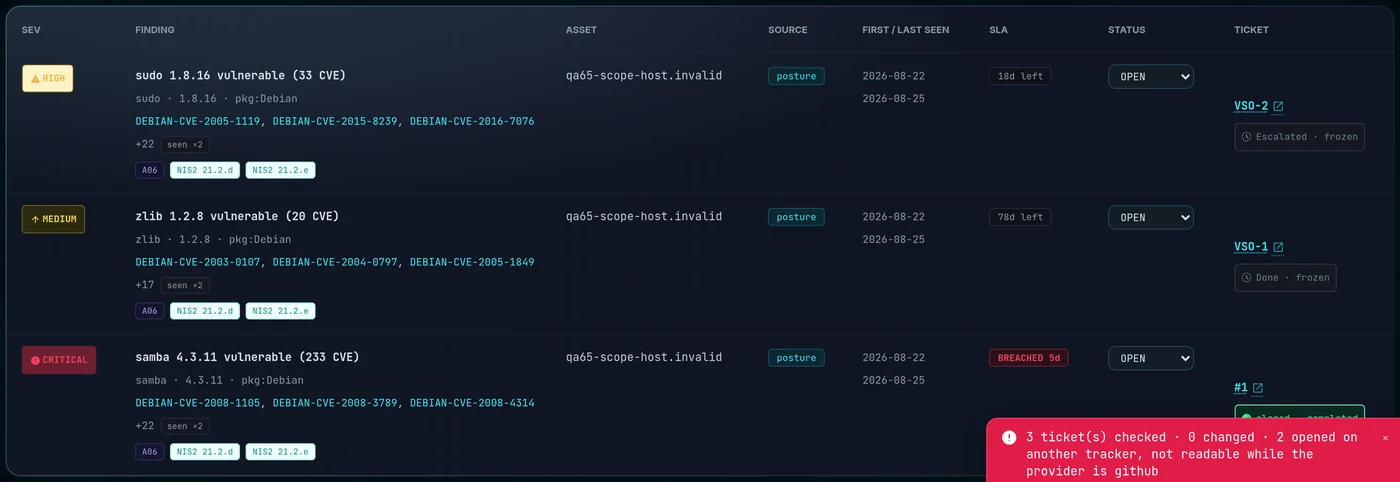
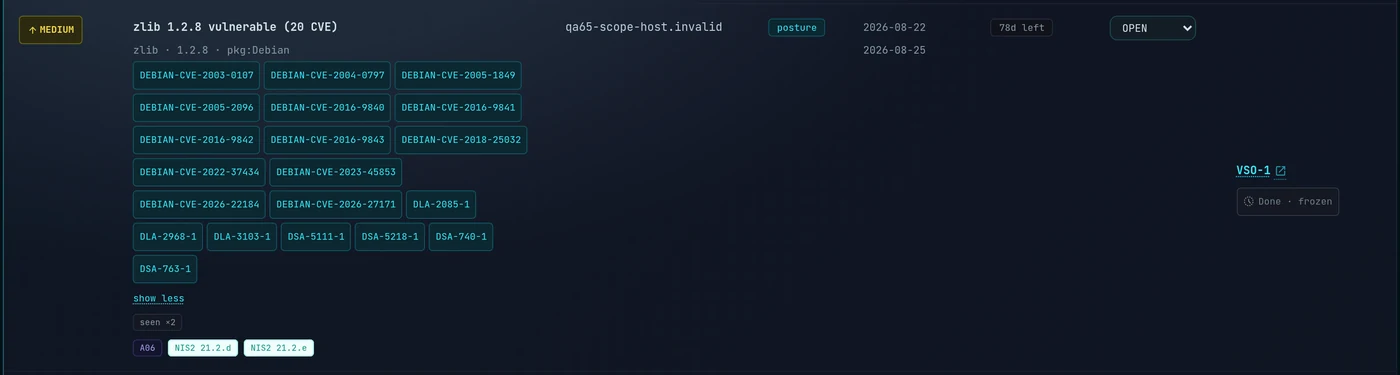
NEW: the +N on a findings row opens, instead of only counting
Every row said "+17" and stopped there. To find out whether a finding
touched one particular CVE you had to export the table or go and look at
the posture page, which has had an expandable list all along — the
information was in the row the whole time, three identifiers of it
merely visible.

The toggle now opens the rest in place and turns into "show less", the
same behaviour and the same wording as the posture page, so the two
tables no longer disagree about what a truncated list does.

Two things it fixes on the way. The identifiers were plain text: they are
links now, and they go where each kind belongs — CVEs to their NVD entry,
distribution advisories (DSA, DLA, GHSA) to OSV, which is the source they
arrived from. And the ids are kept on the cell rather than looked up from
the row on click: the table is redrawn on every filter change, so a
lookup by id would have to search a list that had just been rebuilt.

No request is made to expand. Unlike the posture page, where the stored
ids can be fewer than the OSV total and the rest have to be fetched, a
finding already carries its full list — the export has been writing all
twenty of them for a while.

Verified in the browser on a finding with 25 identifiers: three chips
collapsed, twenty-five expanded, back to three, aria-expanded following
along, DLA-2085-1 resolving to OSV and the CVEs to NVD, in English and
Italian. The suite is Python and does not reach this code; the 330 tests
[…]

diff --git a/templates/findings.html b/templates/findings.html
@@ -9,7 +9,7 @@
   <link rel="icon" type="image/svg+xml" href="/static/favicon.svg" />
   <!-- Self-hosted fonts (Inter, JetBrains Mono, Material Symbols) -->
   <link href="/static/vendor/fonts/fonts.css" rel="stylesheet" />
-  <link rel="stylesheet" href="/static/vendor/tailwind.css?v=52" />
+  <link rel="stylesheet" href="/static/vendor/tailwind.css?v=53" />
   <!-- XLSX export (SheetJS), gia' usato da dashboard e audit -->
   <script src="/static/vendor/xlsx.full.min.js"></script>
   <style>
@@ -376,6 +376,66 @@
         return !!p && p !== TK_PROVIDER;
       }
 
+      // ── CVE espandibili ────────────────────────────────────────────
+      // Il '+17' diceva quante ne mancavano senza darti modo di vederle: per
+      // sapere se un finding tocca una CVE precisa bisognava esportare o
+      // aprire un'altra pagina. Stesso comportamento della pagina posture —
+      // un elenco troncato, un interruttore, e i riferimenti cliccabili.
+      const CVE_LIMIT = 3;
+      let cveSeq = 0;
+
+      function cveUrl(id) {
+        // NVD conosce solo i CVE; gli advisory di distribuzione (DSA/DLA/GHSA)
+        // stanno su OSV, che e' anche la fonte da cui arrivano qui.
+        return /^CVE-/i.test(id)
+          ? `https://nvd.nist.gov/vuln/detail/${encodeURIComponent(id)}`
+          : `https://osv.dev/vulnerability/${encodeURIComponent(id)}`;
+      }
+
+      function cveChip(id) {
+        return `<a href="${cveUrl(id)}" target="_blank" rel="noopener noreferrer"`
+          + ` class="inline-block font-code-sm text-[10px] text-cyan-700 bg-cyan-50 border border-cyan-200 px-1.5 py-0.5 rounded hover:bg-cyan-100 hover:border-cyan-300 transition-colors"`
+          + ` title="${esc(id)}">${esc(id)}</a>`;
+      }
+
+      function cveCell(r) {
+        const ids = r.cve_ids || [];
+        if (!ids.length) return '<span class="text-slate-300 text-[11px]">—</span>';
+        const cid = 'fcve-' + (cveSeq++);
+        const hidden = ids.length - CVE_LIMIT;
+        const toggle = hidden > 0
+          ? `<button type="button" data-fcve data-cid="${cid}" data-expanded="0"
+               class="mt-1 inline-block font-code-sm text-[10px] text-cyan-700 hover:text-cyan-900 underline decoration-dotted underline-offset-2 cursor-pointer"
+               aria-expanded="false" aria-controls="${cid}-chips"
+               >${esc(tr('audit.show_more', { n: hidden }))}</button>`
+          : '';
+        // Gli id restano nel dataset della cella: la tabella si ridisegna a
+        // ogni cambio di filtro, e rileggerli dalla riga costerebbe una
+        // ricerca per id a ogni clic.
+        return `<div data-cve-ids='${esc(JSON.stringify(ids))}'>`
+          + `<div class="flex flex-wrap gap-1" id="${cid}-chips">${ids.slice(0, CVE_LIMIT).map(cveChip).join('')}</div>`
+          + `${toggle}</div>`;
+      }
+
+      // Delega sul tbody: le righe sono rigenerate a ogni render, agganciare
+      // un listener per pulsante li perderebbe tutti.
+      $('tbody').addEventListener('click', (e) => {
+        const btn = e.target.closest('[data-fcve]');
+        if (!btn) return;
+        const chips = document.getElementById(btn.dataset.cid + '-chips');
+        const wrap = btn.parentElement;
+        if (!chips || !wrap) return;
+        let ids = [];
+        try { ids = JSON.parse(wrap.dataset.cveIds || '[]'); } catch (_) { return; }
+        const open = btn.dataset.expanded === '1';
+        chips.innerHTML = (open ? ids.slice(0, CVE_LIMIT) : ids).map(cveChip).join('');
+        btn.dataset.expanded = open ? '0' : '1';
+        btn.setAttribute('aria-expanded', open ? 'false' : 'true');
+        btn.textContent = open
+          ? tr('audit.show_more', { n: ids.length - CVE_LIMIT })
+          : tr('audit.show_less');
+      });
+
       function ticketStatusLabel(r) {
         if (!r.ticket_status && !r.ticket_state) {
           // Mai riletto: dirlo, invece di lasciare la cella muta come prima.
@@ -491,9 +551,7 @@
           const sevCls = SEV_BADGE[(r.severity || 'UNKNOWN').toUpperCase()] || SEV_BADGE.UNKNOWN;
           const srcs = (r.source || '').split('+').filter(Boolean).map((s) =>
             `<span class="px-2 py-0.5 rounded border text-[10px] ${SRC_BADGE[s] || 'bg-slate-50 text-slate-500 border-slate-200'}">${esc(s)}</span>`).join(' ');
-          const cves = (r.cve_ids || []).slice(0, 3).map((c) =>
-            `<span class="text-cyan-700">${esc(c)}</span>`).join(', ') +
-            ((r.cve_ids || []).length > 3 ? ` <span class="text-slate-500">+${r.cve_ids.length - 3}</span>` : '');
+          const cves = cveCell(r);
           const badges = [];
           if (r.reopened > 0) badges.push(`<span class="px-1.5 py-0.5 rounded bg-rose-50 border border-rose-200 text-rose-600 text-[9px]">${esc(tr('find.reopened_badge', { n: r.reopened }))}</span>`);
           if (r.times_seen > 1) badges.push(`<span class="px-1.5 py-0.5 rounded bg-slate-50 border border-slate-200 text-slate-500 text-[9px]">${esc(tr('find.seen_badge', { n: r.times_seen }))}</span>`);

diff --git a/static/manuale_uso/07-findings.html b/static/manuale_uso/07-findings.html
@@ -433,7 +433,7 @@
             </thead>
             <tbody>
               <tr><td><strong>SEV</strong></td><td><span lang="en">Severity badge, colour-coded.</span><span lang="it">Badge di severità, codificato a colori.</span></td></tr>
-              <tr><td><strong>FINDING</strong></td><td><span lang="en">Title, package or rule, CVE identifiers, CWE and the derived compliance tags.</span><span lang="it">Titolo, pacchetto o regola, identificativi CVE, CWE e le etichette di conformità derivate.</span></td></tr>
+              <tr><td><strong>FINDING</strong></td><td><span lang="en">Title, package or rule, CVE identifiers, CWE and the derived compliance tags. Only the first three identifiers are shown; the <b>+N more</b> underneath opens the rest in place and turns into <b>show less</b>. Every identifier is a link — CVEs to the NVD entry, distribution advisories (DSA, DLA, GHSA) to OSV, which is where they came from. The list collapses again when the table is re-filtered, since the rows are redrawn.</span><span lang="it">Titolo, pacchetto o regola, identificativi CVE, CWE e le etichette di conformità derivate. Sono mostrati solo i primi tre identificativi; il <b>+N altre</b> sotto apre i restanti sul posto e diventa <b>mostra meno</b>. Ogni identificativo è un link — i CVE alla scheda NVD, gli advisory di distribuzione (DSA, DLA, GHSA) a OSV, da cui provengono. L'elenco si richiude quando la tabella viene rifiltrata, perché le righe vengono ridisegnate.</span></td></tr>
               <tr><td><strong>ASSET</strong></td><td><span lang="en">The attributed inventory host, or blank for an unattributed import.</span><span lang="it">L'host di inventario attribuito, o vuoto per un import senza attribuzione.</span></td></tr>
               <tr><td><strong>SOURCE</strong></td><td><span lang="en">The originating tool or tools — <code>posture</code>, <code>trivy</code>, <code>trivy+grype</code>, <code>semgrep</code>… A combined source is the visible proof that deduplication worked.</span><span lang="it">Lo strumento o gli strumenti di origine — <code>posture</code>, <code>trivy</code>, <code>trivy+grype</code>, <code>semgrep</code>… Una sorgente combinata è la prova visibile che la deduplica ha funzionato.</span></td></tr>
               <tr><td><strong>FIRST / LAST SEEN</strong></td><td><span lang="en">The observation window, with the badges <span class="badge">seen ×n</span> and <span class="badge b-warn">reopened ×n</span>.</span><span lang="it">La finestra di osservazione, con i badge <span class="badge">seen ×n</span> e <span class="badge b-warn">reopened ×n</span>.</span></td></tr>
@@ -479,14 +479,16 @@
         <figure class="mid">
           <img src="img/findings-row.webp" alt="A single finding row" loading="lazy" />
           <figcaption>
-            <span lang="en"><b>Findings with a ticket</b> — the state read back from the tracker sits under each reference.
-              All three findings are still <em>open</em> while their tickets are not, which is the disagreement worth
-              seeing. The two Jira ones are greyed and marked <em>frozen</em>: they were opened before the provider was
-              switched to GitHub, so their state is the last one read and is no longer being updated.</span>
-            <span lang="it"><b>Finding con un ticket</b> — sotto ogni riferimento, lo stato riletto dal tracker. Tutti e tre i
-              finding sono ancora <em>open</em> mentre i loro ticket non lo sono, ed è la discordanza che vale la pena
-              vedere. I due Jira sono in grigio e marcati <em>congelato</em>: sono stati aperti prima che il provider
-              passasse a GitHub, quindi il loro stato è l'ultimo letto e non viene più aggiornato.</span>
+            <span lang="en"><b>A single finding, CVE list expanded</b> — all twenty identifiers of this one, opened in place
+              by the <em>+17 more</em> toggle and closed again by <em>show less</em>. The distribution advisories
+              (DSA, DLA) link to OSV, the CVEs to NVD. On the right the linked ticket: <em>Done</em> while the finding
+              is still <em>open</em>, and greyed as <em>frozen</em> because it lives on the tracker that is no longer
+              the configured one.</span>
+            <span lang="it"><b>Un singolo finding, elenco CVE espanso</b> — tutti e venti gli identificativi, aperti sul posto
+              dall'interruttore <em>+17 altre</em> e richiusi da <em>mostra meno</em>. Gli advisory di distribuzione
+              (DSA, DLA) puntano a OSV, i CVE a NVD. A destra il ticket collegato: <em>Done</em> mentre il finding è
+              ancora <em>open</em>, e in grigio come <em>congelato</em> perché vive sul tracker che non è più quello
+              configurato.</span>
           </figcaption>
         </figure>
 

diff --git a/templates/activate.html b/templates/activate.html
@@ -8,7 +8,7 @@
   <link rel="icon" type="image/svg+xml" href="/static/favicon.svg" />
   <!-- Self-hosted fonts (Inter, JetBrains Mono, Material Symbols) -->
   <link href="/static/vendor/fonts/fonts.css" rel="stylesheet" />
-  <link rel="stylesheet" href="/static/vendor/tailwind.css?v=52" />
+  <link rel="stylesheet" href="/static/vendor/tailwind.css?v=53" />
   <!-- Stesso guscio della login: invito, attivazione e primo accesso sono un
        unico percorso, e cambiare ambiente a meta' strada lo farebbe sembrare
        un altro sito proprio mentre si sceglie una password. -->

diff --git a/templates/change_password.html b/templates/change_password.html
@@ -8,7 +8,7 @@
   <link rel="icon" type="image/svg+xml" href="/static/favicon.svg" />
   <!-- Self-hosted fonts (Inter, JetBrains Mono, Material Symbols) -->
   <link href="/static/vendor/fonts/fonts.css" rel="stylesheet" />
-  <link rel="stylesheet" href="/static/vendor/tailwind.css?v=52" />
+  <link rel="stylesheet" href="/static/vendor/tailwind.css?v=53" />
   <!-- Stesso guscio della login: al primo accesso questa pagina arriva subito
        dopo, e il percorso deve restare un unico ambiente. -->
   <link rel="stylesheet" href="/static/vfa-field.css?v=6" />

diff --git a/templates/login.html b/templates/login.html
@@ -8,7 +8,7 @@
   <link rel="icon" type="image/svg+xml" href="/static/favicon.svg" />
   <!-- Self-hosted fonts (Inter, JetBrains Mono, Material Symbols) -->
   <link href="/static/vendor/fonts/fonts.css" rel="stylesheet" />
-  <link rel="stylesheet" href="/static/vendor/tailwind.css?v=52" />
+  <link rel="stylesheet" href="/static/vendor/tailwind.css?v=53" />
   <!-- DEEP FIELD: guscio comune alle schermate di accesso (vedi vfa-field.css) -->
   <link rel="stylesheet" href="/static/vfa-field.css?v=6" />
   <script src="/static/i18n.js?v=55"></script>

diff --git a/templates/code.html b/templates/code.html
@@ -9,7 +9,7 @@
         <link rel="icon" type="image/svg+xml" href="/static/favicon.svg" />
   <!-- Self-hosted fonts (Inter, JetBrains Mono, Material Symbols) -->
   <link href="/static/vendor/fonts/fonts.css" rel="stylesheet" />
-        <link rel="stylesheet" href="/static/vendor/tailwind.css?v=52" />
+        <link rel="stylesheet" href="/static/vendor/tailwind.css?v=53" />
         <style>
                 .material-symbols-outlined {
                         font-variation-settings: 'FILL' 1, 'wght' 400, 'GRAD' 0, 'opsz' 24;

diff --git a/templates/risk.html b/templates/risk.html
@@ -9,7 +9,7 @@
   <link rel="icon" type="image/svg+xml" href="/static/favicon.svg" />
   <!-- Self-hosted fonts (Inter, JetBrains Mono, Material Symbols) -->
   <link href="/static/vendor/fonts/fonts.css" rel="stylesheet" />
-  <link rel="stylesheet" href="/static/vendor/tailwind.css?v=52" />
+  <link rel="stylesheet" href="/static/vendor/tailwind.css?v=53" />
   <script src="/static/vendor/chart.umd.min.js"></script>
   <style>
     .material-symbols-outlined { font-variation-settings: 'FILL' 1, 'wght' 400, 'GRAD' 0, 'opsz' 24; }

diff --git a/templates/sbom.html b/templates/sbom.html
@@ -7,7 +7,7 @@
   <link rel="icon" type="image/svg+xml" href="/static/favicon.svg" />
   <!-- Self-hosted fonts (Inter, JetBrains Mono, Material Symbols) -->
   <link href="/static/vendor/fonts/fonts.css" rel="stylesheet" />
-  <link rel="stylesheet" href="/static/vendor/tailwind.css?v=52" />
+  <link rel="stylesheet" href="/static/vendor/tailwind.css?v=53" />
   <script src="/static/vendor/xlsx.full.min.js"></script>
   <style>
     .material-symbols-outlined { font-variation-settings: 'FILL' 1, 'wght' 400, 'GRAD' 0, 'opsz' 24; }

diff --git a/templates/index.html b/templates/index.html
@@ -9,7 +9,7 @@
   <link rel="icon" type="image/svg+xml" href="/static/favicon.svg" />
   <!-- Self-hosted fonts (Inter, JetBrains Mono, Material Symbols) -->
   <link href="/static/vendor/fonts/fonts.css" rel="stylesheet" />
-  <link rel="stylesheet" href="/static/vendor/tailwind.css?v=52" />
+  <link rel="stylesheet" href="/static/vendor/tailwind.css?v=53" />
   <!-- XLSX export (SheetJS) + shared table/export helpers -->
   <script src="/static/vendor/xlsx.full.min.js"></script>
   <script src="/static/tableutils.js"></script>

diff --git a/templates/admin.html b/templates/admin.html
@@ -8,7 +8,7 @@
   <link rel="icon" type="image/svg+xml" href="/static/favicon.svg" />
   <!-- Self-hosted fonts (Inter, JetBrains Mono, Material Symbols) -->
   <link href="/static/vendor/fonts/fonts.css" rel="stylesheet" />
-  <link rel="stylesheet" href="/static/vendor/tailwind.css?v=52" />
+  <link rel="stylesheet" href="/static/vendor/tailwind.css?v=53" />
   <style>
     .material-symbols-outlined { font-variation-settings: 'FILL' 1, 'wght' 400, 'GRAD' 0, 'opsz' 24; }
     ::-webkit-scrollbar { width: 6px; height: 6px; }

diff --git a/templates/assets.html b/templates/assets.html
@@ -9,7 +9,7 @@
   <link rel="icon" type="image/svg+xml" href="/static/favicon.svg" />
   <!-- Self-hosted fonts (Inter, JetBrains Mono, Material Symbols) -->
   <link href="/static/vendor/fonts/fonts.css" rel="stylesheet" />
-  <link rel="stylesheet" href="/static/vendor/tailwind.css?v=52" />
+  <link rel="stylesheet" href="/static/vendor/tailwind.css?v=53" />
   <style>
     .material-symbols-outlined {
       font-variation-settings: 'FILL' 1, 'wght' 400, 'GRAD' 0, 'opsz' 24;

diff --git a/templates/audit.html b/templates/audit.html
@@ -9,7 +9,7 @@
   <link rel="icon" type="image/svg+xml" href="/static/favicon.svg" />
   <!-- Self-hosted fonts (Inter, JetBrains Mono, Material Symbols) -->
   <link href="/static/vendor/fonts/fonts.css" rel="stylesheet" />
-  <link rel="stylesheet" href="/static/vendor/tailwind.css?v=52" />
+  <link rel="stylesheet" href="/static/vendor/tailwind.css?v=53" />
   <style>
     .material-symbols-outlined {
       font-variation-settings: 'FILL' 1, 'wght' 400, 'GRAD' 0, 'opsz' 24;
